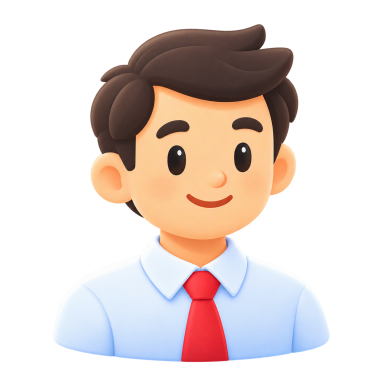
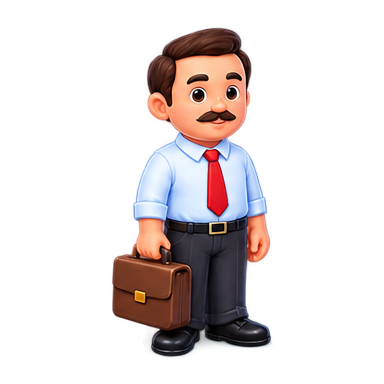
feat(conceptual): full-length Student and Employee, and a second Family
Release lab checkpoint 06c. Seventeen Dr.icons: family_2 follows family
(both labelled Family); Student and Employee are the full-length figures.

diff --git a/tests/desktop_tests.cpp b/tests/desktop_tests.cpp
@@ -8148,7 +8148,7 @@ namespace
         every_key_answers("in the Schema workspace");
     }
 
-    // Dr.icons (Item 9, 2026-10-14): sixteen illustrations of what an entity
+    // Dr.icons (Item 9, 2026-10-14): seventeen illustrations of what an entity
     // stands for, put on the conceptual diagram as pictures from a gallery on
     // Insert (Zain chose pictures over a property of the entity, 2026-10-14).
     // The keys and labels are his and fixed. Each icon is compiled in as a
@@ -8159,15 +8159,16 @@ namespace
     // stretched. Relational Design, which has no pictures, does not offer it.
     void dr_icons_tests(infrastructure::QtIdGenerator &ids)
     {
-        // The contract: the sixteen keys, labels and order.
+        // The contract: the seventeen keys, labels and order. The two
+        // families share a label (Zain, 2026-10-15).
         const std::vector<std::pair<QString, QString>> wanted{
-            {"student", "Student"}, {"course", "Course"}, {"family", "Family"},
+            {"student", "Student"}, {"course", "Course"}, {"family", "Family"}, {"family_2", "Family"},
             {"identification_card", "Identification Card"}, {"order", "Order"}, {"product", "Product"},
             {"book", "Book"}, {"project", "Project"}, {"employee", "Employee"}, {"person", "Person"},
             {"seat", "Seat"}, {"task", "Task"}, {"car", "Car"}, {"mobile_line", "Mobile Line"},
             {"phone_ext", "Phone Ext."}, {"desk", "Desk"}};
         const auto &icons = desktop::dr_icons();
-        require(icons.size() == wanted.size(), "There are sixteen Dr.icons");
+        require(icons.size() == wanted.size(), "There are seventeen Dr.icons");
         std::set<QByteArray> seen;
         for (std::size_t i = 0; i < icons.size(); ++i)
         {
@@ -8201,7 +8202,7 @@ namespace
             require(ink > 384 * 384 / 10, "Something is drawn in it");
             require(left > 0 && top > 0 && right < 383 && bottom < 383, "And nothing drawn is cut by its edge");
         }
-        require(!desktop::dr_icon("unicorn"), "A key that is not one of the sixteen finds nothing");
+        require(!desktop::dr_icon("unicorn"), "A key that is not one of the seventeen finds nothing");
 
         application::Editor model(ids);
         infrastructure::ErdxProjectStore store;
@@ -8224,7 +8225,7 @@ namespace
         require(entry->isVisible() && !entry->icon().isNull() && !entry->toolTip().isEmpty(),
                 "With a glyph and a tooltip");
 
-        // The gallery: sixteen buttons, each its icon over its label.
+        // The gallery: seventeen buttons, each its icon over its label.
         entry->trigger();
         settle();
         auto *gallery = child<QDialog>(window, "drIconPicker");
@@ -8448,7 +8449,7 @@ namespace
                     "And the icon keeps its proportions in it");
         }
         empty.mark_saved(empty.revision());
-        std::cout << "PASS Dr.icons: sixteen compiled-in icons placed as pictures, kept, undone, drawn and exported\n";
+        std::cout << "PASS Dr.icons: seventeen compiled-in icons placed as pictures, kept, undone, drawn and exported\n";
     }
 
     // A locked tool's padlock is seen whatever room its row has and whatever

diff --git a/app/desktop/dr_icons.cpp b/app/desktop/dr_icons.cpp
@@ -10,13 +10,16 @@
 
 namespace erdflow::desktop {
 
-const std::array<DrIcon, 16>& dr_icons() {
+const std::array<DrIcon, 17>& dr_icons() {
     // The keys and labels are Zain's (2026-10-14) and are not to be renamed:
-    // the key is also the file under assets/dr-icons.
-    static const std::array<DrIcon, 16> icons{{
+    // the key is also the file under assets/dr-icons. There are two families,
+    // both called Family, the second straight after the first (2026-10-15);
+    // the pictures tell them apart.
+    static const std::array<DrIcon, 17> icons{{
         {"student", "Student"},
         {"course", "Course"},
         {"family", "Family"},
+        {"family_2", "Family"},
         {"identification_card", "Identification Card"},
         {"order", "Order"},
         {"product", "Product"},

diff --git a/app/desktop/dr_icon_picker.cpp b/app/desktop/dr_icon_picker.cpp
@@ -17,8 +17,8 @@
 namespace erdflow::desktop {
 namespace {
 
-// Four to a row, so the sixteen make a square of four rows with nothing to
-// scroll.
+// Four to a row, so the seventeen make four full rows and a fifth holding
+// the last (Zain, 2026-10-15), with nothing to scroll.
 constexpr int columns = 4;
 // Large enough to tell a family from a person and a desk from a seat; the
 // pictures are detailed and lose their point drawn as small as a glyph.

diff --git a/app/desktop/dr_icon_picker.hpp b/app/desktop/dr_icon_picker.hpp
@@ -15,7 +15,7 @@ class QLabel;
 
 namespace erdflow::desktop {
 
-// The Dr.icons gallery: the sixteen illustrations, four to a row, each with
+// The Dr.icons gallery: the seventeen illustrations, four to a row, each with
 // its name beneath it. Picking one puts it on the diagram as a picture. It
 // stays open while several are placed, as the symbol gallery does, and like
 // that gallery it is a tool window that never takes the keyboard, so the

diff --git a/app/desktop/dr_icons.hpp b/app/desktop/dr_icons.hpp
@@ -28,8 +28,8 @@ struct DrIcon {
     const char* label;
 };
 
-// All sixteen, in the order the gallery shows them.
-[[nodiscard]] const std::array<DrIcon, 16>& dr_icons();
+// All seventeen, in the order the gallery shows them.
+[[nodiscard]] const std::array<DrIcon, 17>& dr_icons();
 
 // The icon with this key, or nothing for a key that is not one of them.
 [[nodiscard]] std::optional<DrIcon> dr_icon(const QString& key);

diff --git a/docs/IMPLEMENTATION_STATUS.md b/docs/IMPLEMENTATION_STATUS.md
@@ -261,8 +261,8 @@ read as still to do.
   its words alone. On the 159-table generated schema, working out what is
   hidden costs 13-113 µs and a repaint with most of it hidden 0.4-0.6 ms.
 - **Dr.icons are put on the diagram from Insert** (Item 9, 2026-10-14, built
-  in the release laboratory, awaiting Zain's review): sixteen illustrations of
-  what an entity commonly stands for -- Student, Course, Family,
+  in the release laboratory, awaiting Zain's review): seventeen illustrations
+  of what an entity commonly stands for -- Student, Course, two called Family,
   Identification Card, Order, Product, Book, Project, Employee, Person, Seat,
   Task, Car, Mobile Line, Phone Ext. and Desk -- in a gallery of their own,
   **Insert → Dr.icons…**, after Symbols, offered while the diagram is in front
@@ -275,13 +275,18 @@ read as still to do.
   undone, saved, reopened and exported as any picture is. Nothing matches an
   icon to an entity by name, and placing one changes no entity. The icons are
   compiled in (`erdflow_dr_icons`, `assets/dr-icons/<key>.png`, 384 px
-  transparent PNGs, 71-135 KB; `dr_icons.hpp` maps the sixteen keys to their
-  labels). Each placed icon keeps its own copy in the project, and a project
+  transparent PNGs, 71-135 KB; `dr_icons.hpp` maps the seventeen keys to
+  their labels). Each placed icon keeps its own copy in the project, and a project
   file holds 8 MiB, so 384 px was chosen over 512: sharp at an entity's height
   to 250% zoom on a high-density screen, with room for about twice as many
-  icons (some 55-60 of the largest before the limit, against 28-41). The ten
-  of the first batch are Zain's approved artwork scaled down from 1254 px. The
-  six of the second (Seat, Task, Car, Mobile Line, Phone Ext., Desk) were
+  icons (some 55-60 of the largest before the limit, against 28-41). Eight of
+  the first batch are Zain's approved artwork scaled down from 1254 px. Student
+  and Employee were exchanged (Zain, 2026-10-15) for full-length figures -- the
+  student holding books, the employee with a briefcase -- and a second Family
+  added straight after the first; all three are cut from Zain's other sheet of
+  sixteen, at the 380-410 px it holds them at, the employee placed on its
+  canvas unscaled rather than enlarged. The four rows of the gallery became
+  four full rows and a fifth holding Desk. The six of the second batch (Seat, Task, Car, Mobile Line, Phone Ext., Desk) were
   redrawn in the first batch's 3D style (Zain, 2026-10-14), supplied as one
   transparent sheet, cut apart into masters of 496-682 px and scaled down;
   they replaced the first, flatter drawings under the same file names. A
